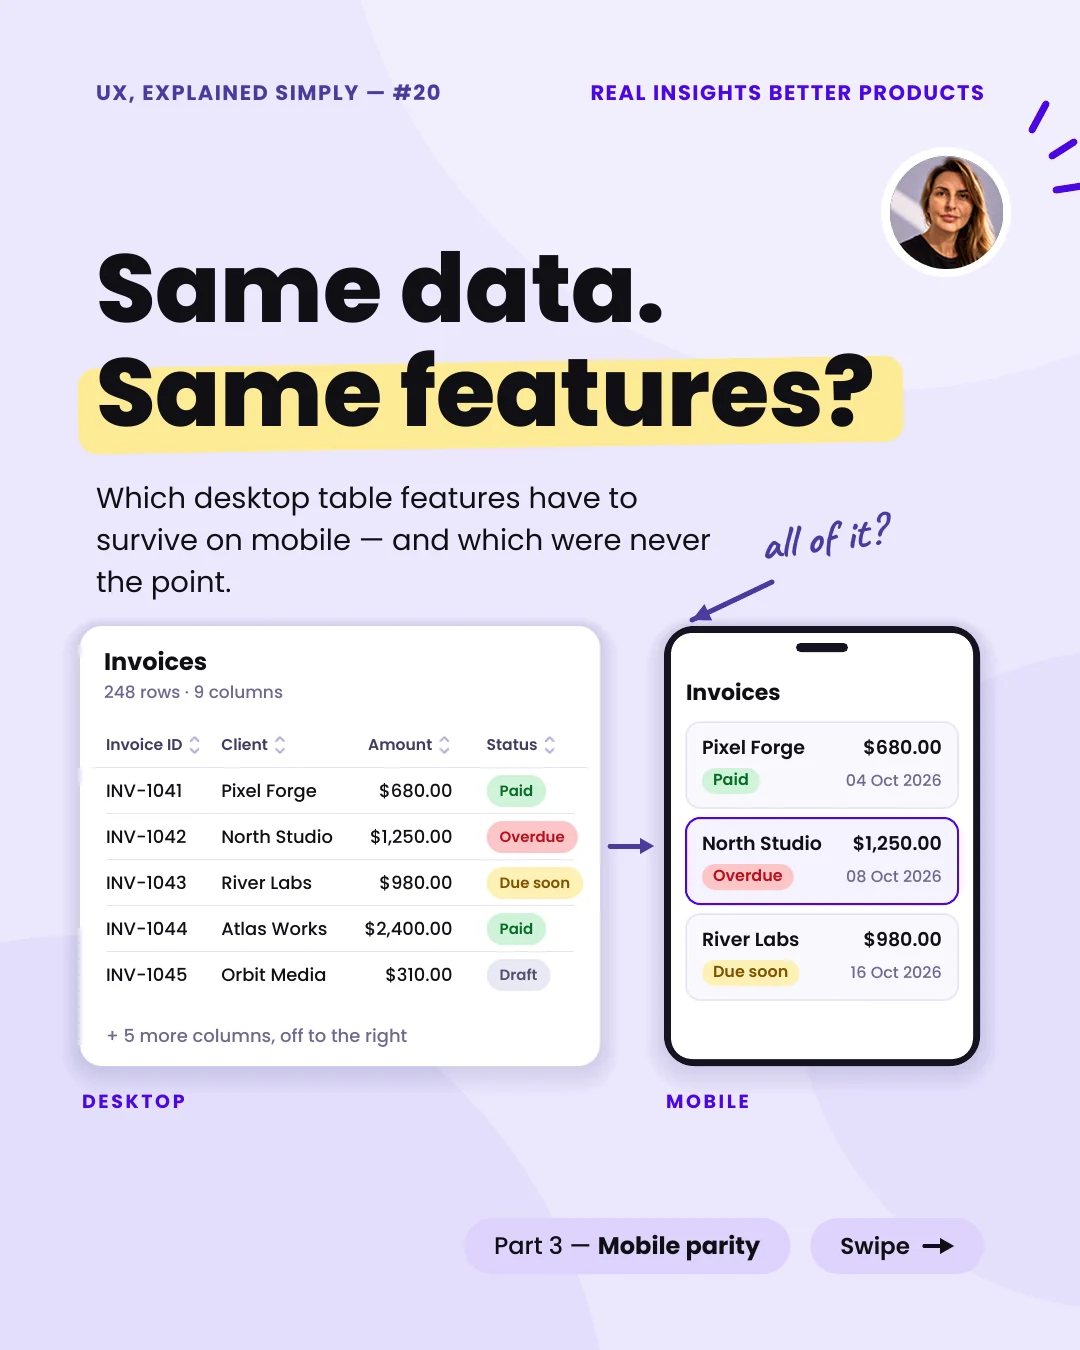
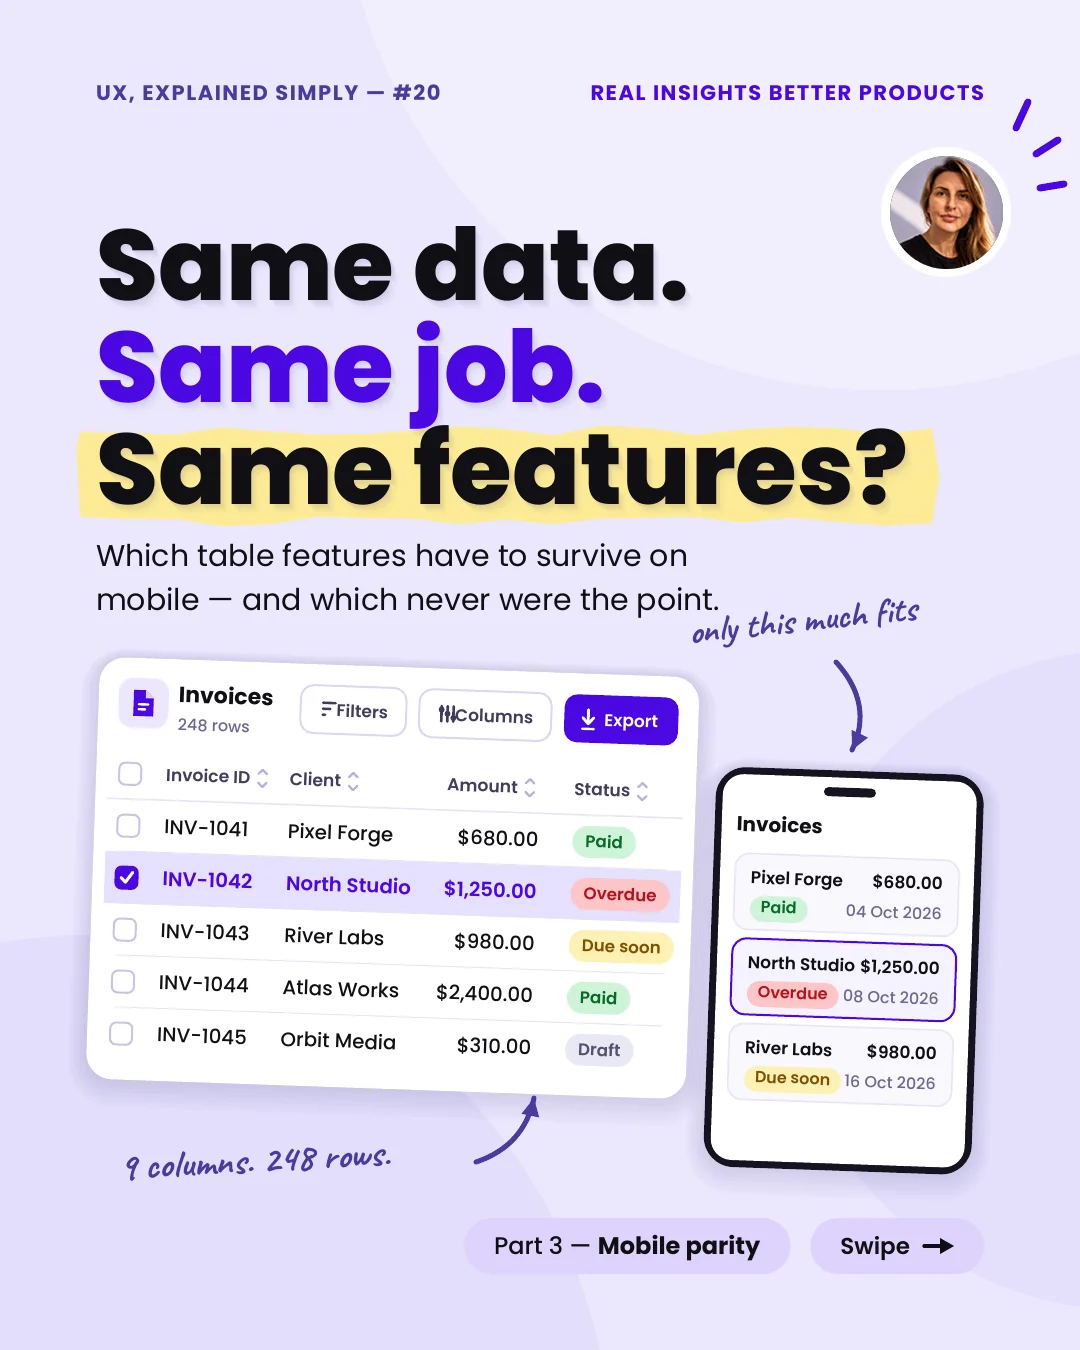
Rework the #20 cover to match the series cover language (#70)
The cover was the odd one out next to #17: smaller headline, no shadow, a
clean rounded rect instead of a marker stroke, and a flat untilted mockup.

- three-line headline at 100pt with a soft accumulated drop shadow
- marker swash with torn edges, replacing the rounded rect
- the grid and the phone sit in one group tilted 2 degrees, as on #17
- full toolbar on the card: document mark, search, Filters, Columns, Export
- checkbox column and selected row restored; nothing is clipped by the phone
- two handwritten annotations with curved arrows, one per object

Needed group-level rotation in the renderer, which both emitters now support.
Only slide 1 changed; slides 2-6 re-render byte-identically.

Claude-Session: https://claude.ai/code/session_01EoYHbWknzaGpqHCmNZC97q

Changed region(s): [[0.0611, 0.1556, 0.9167, 0.8711], [0.9472, 0.0622, 1.0, 0.1556]]

diff --git a/docs/insights.html b/docs/insights.html
@@ -36,7 +36,7 @@
 <div class="filter-row" aria-label="Topic filters"><a href="#dashboards">Dashboards</a><a href="#data-tables">Data Tables</a><a href="#ux-research">UX Research</a><a href="#accessibility">Accessibility</a><a href="#product-decisions">Product Decisions</a><a href="#ux-patterns">UX Patterns</a><a href="#color-accessibility">Colour Accessibility</a></div>
 </div>
 <div class="insight-grid">
-<article class="ux-card ux-card-with-image insight-carousel-card"><button class="carousel-preview" type="button" data-insight-carousel data-carousel-title="Same data. Same features?" data-carousel-link="https://www.linkedin.com/feed/update/urn:li:activity:7520822708067303425/" data-carousel-slides="images/insights/UX20-4x5-1.webp,images/insights/UX20-4x5-2.webp,images/insights/UX20-4x5-3.webp,images/insights/UX20-4x5-4.webp,images/insights/UX20-4x5-5.webp,images/insights/UX20-4x5-6.webp" aria-label="Open Same data. Same features? carousel"><img class="article-cover carousel-cover" src="images/insights/UX20-4x5-1.webp" width="1080" height="1350" alt="First slide of Same data. Same features? carousel" decoding="async" loading="lazy"><span>Open carousel ↗</span></button><div class="card-meta"><span>Data Tables</span><span>Carousel</span></div><h3>Same data. Same features?</h3><p>UX, Explained Simply #20 — Part 3 of 3 closes the data-tables series: parity decided per feature rather than per screen, what always carries over, what needs a new mechanism, the three questions before anything gets cut, and why WCAG 1.4.10 excepts the table but not the toolbar around it.</p></article>
+<article class="ux-card ux-card-with-image insight-carousel-card"><button class="carousel-preview" type="button" data-insight-carousel data-carousel-title="Same data. Same features?" data-carousel-link="https://www.linkedin.com/feed/update/urn:li:activity:7520822708067303425/" data-carousel-slides="images/insights/UX20-4x5-1.webp?v=2,images/insights/UX20-4x5-2.webp?v=2,images/insights/UX20-4x5-3.webp?v=2,images/insights/UX20-4x5-4.webp?v=2,images/insights/UX20-4x5-5.webp?v=2,images/insights/UX20-4x5-6.webp?v=2" aria-label="Open Same data. Same features? carousel"><img class="article-cover carousel-cover" src="images/insights/UX20-4x5-1.webp?v=2" width="1080" height="1350" alt="First slide of Same data. Same features? carousel" decoding="async" loading="lazy"><span>Open carousel ↗</span></button><div class="card-meta"><span>Data Tables</span><span>Carousel</span></div><h3>Same data. Same features?</h3><p>UX, Explained Simply #20 — Part 3 of 3 closes the data-tables series: parity decided per feature rather than per screen, what always carries over, what needs a new mechanism, the three questions before anything gets cut, and why WCAG 1.4.10 excepts the table but not the toolbar around it.</p></article>
 <article class="ux-card ux-card-with-image insight-carousel-card" id="dashboards"><button class="carousel-preview" type="button" data-insight-carousel data-carousel-title="Users ignored 4 cards on our dashboard. Here&#39;s why." data-carousel-link="https://lnkd.in/p/drwDHUBM" data-carousel-slides="images/insights/UX19-4x5-1.webp?v=1,images/insights/UX19-4x5-2.webp?v=1,images/insights/UX19-4x5-3.webp?v=1,images/insights/UX19-4x5-4.webp?v=1,images/insights/UX19-4x5-5.webp?v=1,images/insights/UX19-4x5-6.webp?v=1,images/insights/UX19-4x5-7.webp?v=1,images/insights/UX19-4x5-8.webp?v=1" aria-label="Open Users ignored 4 cards on our dashboard. Here&#39;s why. carousel"><img class="article-cover carousel-cover" src="images/insights/UX19-4x5-1.webp?v=1" width="1080" height="1350" alt="First slide of Users ignored 4 cards on our dashboard. Here&#39;s why. carousel" decoding="async" loading="lazy"><span>Open carousel ↗</span></button><div class="card-meta"><span>Dashboards</span><span>Carousel</span></div><h3>Users ignored 4 cards on our dashboard. Here&#39;s why.</h3><p>UX, Explained Simply #19 — a real case from a management app: why four KPI tiles got almost no attention, why low clicks are not the failure, four tests every tile should pass, and what we shipped instead.</p></article>
 <article class="ux-card ux-card-with-image insight-carousel-card" id="data-tables"><button class="carousel-preview" type="button" data-insight-carousel data-carousel-title="Your table doesn&#39;t fit on mobile. Now what?" data-carousel-link="https://lnkd.in/p/dV3pCKxA" data-carousel-slides="images/insights/UX18-4x5-1.webp?v=1,images/insights/UX18-4x5-2.webp?v=1,images/insights/UX18-4x5-3.webp?v=1,images/insights/UX18-4x5-4.webp?v=1,images/insights/UX18-4x5-5.webp?v=1,images/insights/UX18-4x5-6.webp?v=1,images/insights/UX18-4x5-7.webp?v=1,images/insights/UX18-4x5-8.webp?v=1" aria-label="Open Your table doesn&#39;t fit on mobile. Now what? carousel"><img class="article-cover carousel-cover" src="images/insights/UX18-4x5-1.webp?v=1" width="1080" height="1350" alt="First slide of Your table doesn&#39;t fit on mobile. Now what? carousel" decoding="async" loading="lazy"><span>Open carousel ↗</span></button><div class="card-meta"><span>Data Tables</span><span>Carousel</span></div><h3>Your table doesn&#39;t fit on mobile. Now what?</h3><p>UX, Explained Simply #18 — Part 2 of 3 on mobile tables: why cards make comparison harder, when a compact list, a labelled card, a scrollable table with a pinned ID or a dedicated compare view fits the task, and why horizontal scroll is not an automatic WCAG 1.4.10 failure.</p></article>
 <article class="ux-card ux-card-with-image insight-carousel-card"><button class="carousel-preview" type="button" data-insight-carousel data-carousel-title="Too much data. Where do I look?" data-carousel-link="https://www.linkedin.com/feed/update/urn:li:ugcPost:7517991751970791425/" data-carousel-slides="images/insights/UX17-4x5-1.webp?v=3,images/insights/UX17-4x5-2.webp?v=3,images/insights/UX17-4x5-3.webp?v=3,images/insights/UX17-4x5-4.webp?v=3,images/insights/UX17-4x5-5.webp?v=3,images/insights/UX17-4x5-6.webp?v=3,images/insights/UX17-4x5-7.webp?v=3,images/insights/UX17-4x5-8.webp?v=3" aria-label="Open Too much data. Where do I look? carousel"><img class="article-cover carousel-cover" src="images/insights/UX17-4x5-1.webp?v=3" width="1080" height="1350" alt="First slide of Too much data. Where do I look? carousel" decoding="async" loading="lazy"><span>Open carousel ↗</span></button><div class="card-meta"><span>Data Tables</span><span>Carousel</span></div><h3>Too much data. Where do I look?</h3><p>UX, Explained Simply #17 — Part 1 of 3 on desktop tables: which four fields earn the default view, sticky headers and an identifying column, what question each control actually answers, pagination versus virtualization, and six accessibility checks a static mockup cannot prove.</p></article>

diff --git a/docs/index.html b/docs/index.html
@@ -115,7 +115,7 @@
 <section class="section ux">
 <div class="section-head"><div><p class="eyebrow">03 / UX, EXPLAINED SIMPLY</p><h2>Professional insights, curated.</h2><p>Short practical notes and carousel posts about accessibility, product decisions, analytics, and research.</p></div><a class="text-link" href="insights.html">View all insights ↗</a></div>
 <div class="insight-grid">
-<article class="ux-card ux-card-with-image insight-carousel-card"><button class="carousel-preview" type="button" data-insight-carousel data-carousel-title="Same data. Same features?" data-carousel-link="https://www.linkedin.com/feed/update/urn:li:activity:7520822708067303425/" data-carousel-slides="images/insights/UX20-4x5-1.webp,images/insights/UX20-4x5-2.webp,images/insights/UX20-4x5-3.webp,images/insights/UX20-4x5-4.webp,images/insights/UX20-4x5-5.webp,images/insights/UX20-4x5-6.webp" aria-label="Open Same data. Same features? carousel"><img class="article-cover carousel-cover" src="images/insights/UX20-4x5-1.webp" width="1080" height="1350" alt="First slide of Same data. Same features? carousel" decoding="async" loading="lazy"><span>Open carousel ↗</span></button><div class="card-meta"><span>Data Tables</span><span>Carousel</span></div><h3>Same data. Same features?</h3><p>UX, Explained Simply #20 — Part 3 of 3 closes the data-tables series: parity decided per feature rather than per screen, what always carries over, what needs a new mechanism, the three questions before anything gets cut, and why WCAG 1.4.10 excepts the table but not the toolbar around it.</p></article>
+<article class="ux-card ux-card-with-image insight-carousel-card"><button class="carousel-preview" type="button" data-insight-carousel data-carousel-title="Same data. Same features?" data-carousel-link="https://www.linkedin.com/feed/update/urn:li:activity:7520822708067303425/" data-carousel-slides="images/insights/UX20-4x5-1.webp?v=2,images/insights/UX20-4x5-2.webp?v=2,images/insights/UX20-4x5-3.webp?v=2,images/insights/UX20-4x5-4.webp?v=2,images/insights/UX20-4x5-5.webp?v=2,images/insights/UX20-4x5-6.webp?v=2" aria-label="Open Same data. Same features? carousel"><img class="article-cover carousel-cover" src="images/insights/UX20-4x5-1.webp?v=2" width="1080" height="1350" alt="First slide of Same data. Same features? carousel" decoding="async" loading="lazy"><span>Open carousel ↗</span></button><div class="card-meta"><span>Data Tables</span><span>Carousel</span></div><h3>Same data. Same features?</h3><p>UX, Explained Simply #20 — Part 3 of 3 closes the data-tables series: parity decided per feature rather than per screen, what always carries over, what needs a new mechanism, the three questions before anything gets cut, and why WCAG 1.4.10 excepts the table but not the toolbar around it.</p></article>
 <article class="ux-card ux-card-with-image insight-carousel-card"><button class="carousel-preview" type="button" data-insight-carousel data-carousel-title="Users ignored 4 cards on our dashboard. Here&#39;s why." data-carousel-link="https://lnkd.in/p/drwDHUBM" data-carousel-slides="images/insights/UX19-4x5-1.webp?v=1,images/insights/UX19-4x5-2.webp?v=1,images/insights/UX19-4x5-3.webp?v=1,images/insights/UX19-4x5-4.webp?v=1,images/insights/UX19-4x5-5.webp?v=1,images/insights/UX19-4x5-6.webp?v=1,images/insights/UX19-4x5-7.webp?v=1,images/insights/UX19-4x5-8.webp?v=1" aria-label="Open Users ignored 4 cards on our dashboard. Here&#39;s why. carousel"><img class="article-cover carousel-cover" src="images/insights/UX19-4x5-1.webp?v=1" width="1080" height="1350" alt="First slide of Users ignored 4 cards on our dashboard. Here&#39;s why. carousel" decoding="async" loading="lazy"><span>Open carousel ↗</span></button><div class="card-meta"><span>Dashboards</span><span>Carousel</span></div><h3>Users ignored 4 cards on our dashboard. Here&#39;s why.</h3><p>UX, Explained Simply #19 — a real case from a management app: why four KPI tiles got almost no attention, why low clicks are not the failure, four tests every tile should pass, and what we shipped instead.</p></article>
 <article class="ux-card ux-card-with-image insight-carousel-card"><button class="carousel-preview" type="button" data-insight-carousel data-carousel-title="Your table doesn&#39;t fit on mobile. Now what?" data-carousel-link="https://lnkd.in/p/dV3pCKxA" data-carousel-slides="images/insights/UX18-4x5-1.webp?v=1,images/insights/UX18-4x5-2.webp?v=1,images/insights/UX18-4x5-3.webp?v=1,images/insights/UX18-4x5-4.webp?v=1,images/insights/UX18-4x5-5.webp?v=1,images/insights/UX18-4x5-6.webp?v=1,images/insights/UX18-4x5-7.webp?v=1,images/insights/UX18-4x5-8.webp?v=1" aria-label="Open Your table doesn&#39;t fit on mobile. Now what? carousel"><img class="article-cover carousel-cover" src="images/insights/UX18-4x5-1.webp?v=1" width="1080" height="1350" alt="First slide of Your table doesn&#39;t fit on mobile. Now what? carousel" decoding="async" loading="lazy"><span>Open carousel ↗</span></button><div class="card-meta"><span>Data Tables</span><span>Carousel</span></div><h3>Your table doesn&#39;t fit on mobile. Now what?</h3><p>UX, Explained Simply #18 — Part 2 of 3 on mobile tables: why cards make comparison harder, when a compact list, a labelled card, a scrollable table with a pinned ID or a dedicated compare view fits the task, and why horizontal scroll is not an automatic WCAG 1.4.10 failure.</p></article>
 </div>
